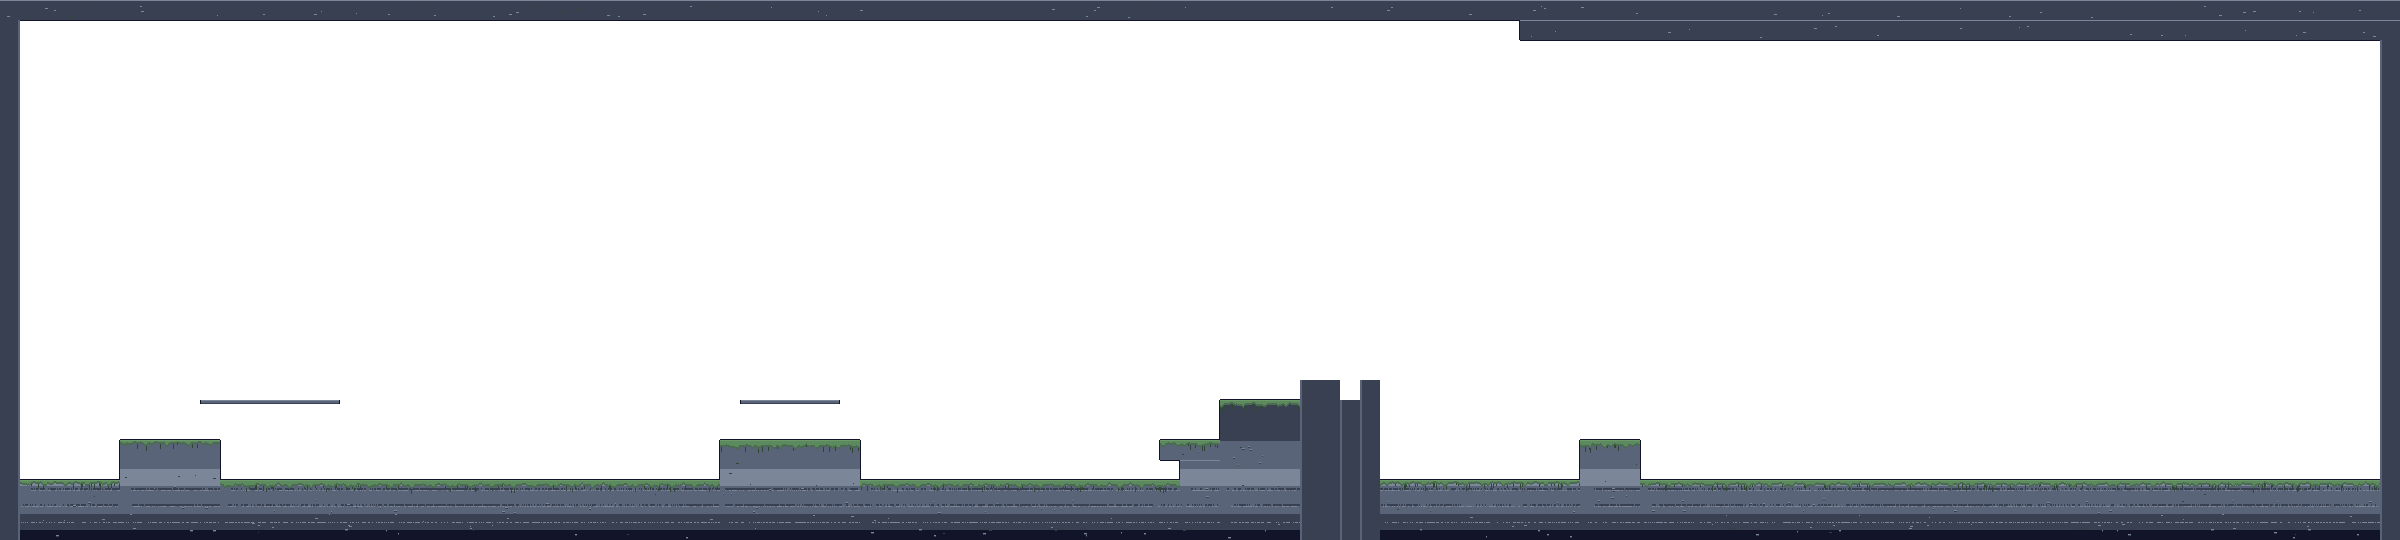
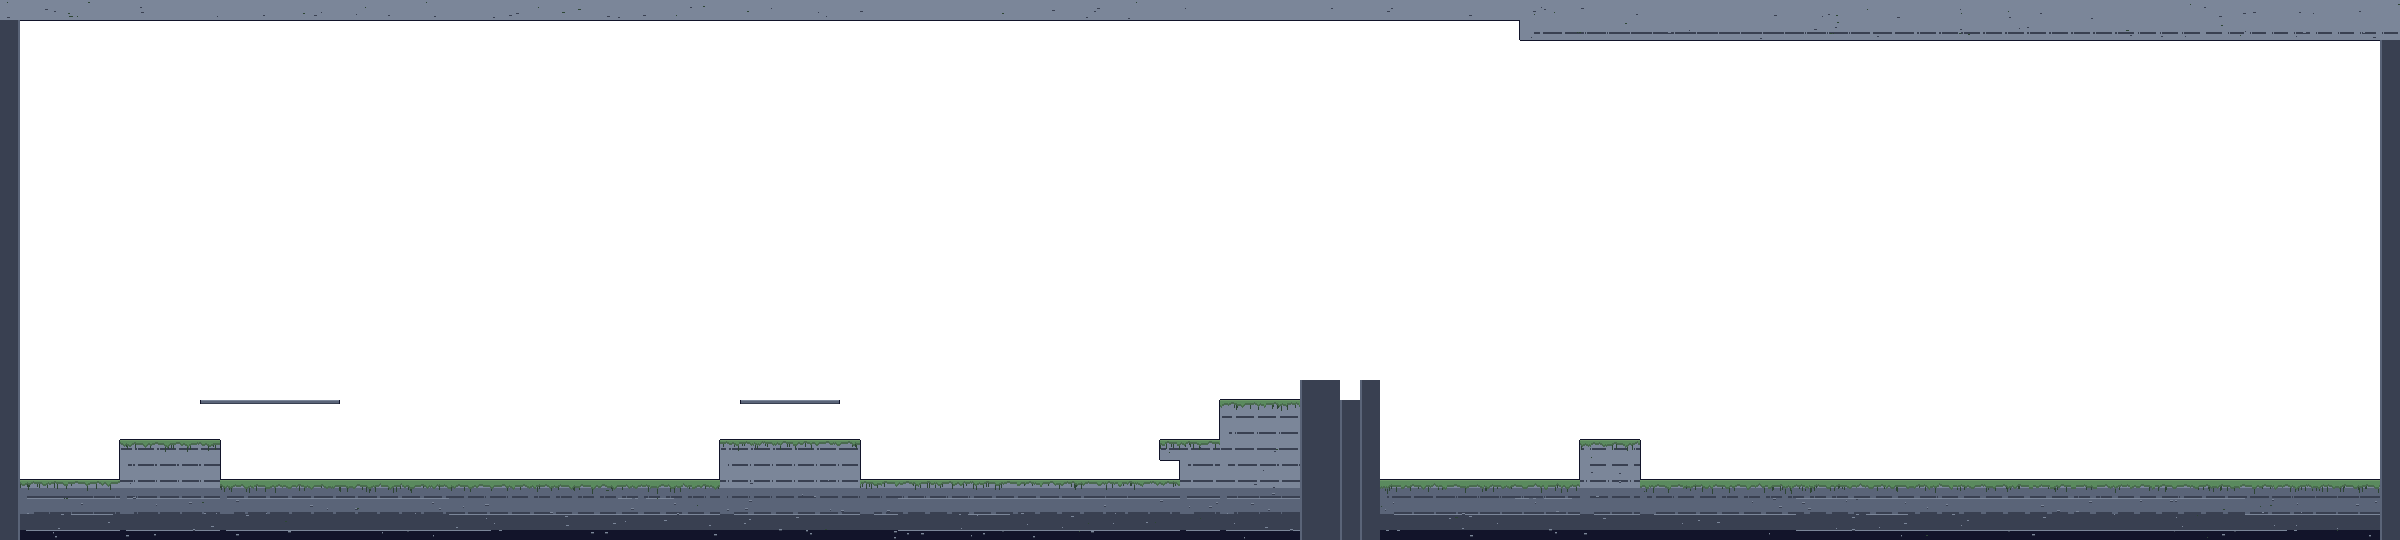
fix(art): 岩层线连续 - 哈希替代 rng 并统一高台配色

Changed region(s): [[0.0, 0.7407, 1.0, 1.0], [0.0, 0.0, 1.0, 0.0889]]

diff --git a/tools/make_scene_art.py b/tools/make_scene_art.py
@@ -516,18 +516,27 @@ def _draw_solid(px, rng, x, y, w, h, solids):
     # 改成以地面顶（GROUND_Y）为锚点的**绝对深度**：
     # 不管这块地形多高，同一世界 y 永远是同一个明暗。
     def _strata_color(yy):
-        depth = yy - GROUND_Y      # 0 = 地面顶，向下为正
-        if depth < 0:
-            # 高于地面的地形（台阶/高台）：按离地面越远越暗，
-            # 但只暗两档，保持"受光的高台"感觉
-            if depth > -12:
-                return hx("stone_hi")
-            elif depth > -40:
-                return hx("stone")
-            else:
-                return hx("stone_dk")
-        # 地面以下：四段深度
-        if depth < 6:
+        """按**世界 y** 返回该行的岩体主色。
+
+        ## 为什么高台不能"越往上越暗"
+
+        第一版写的是：高于地面 12px 用 stone_hi、40px 内用 stone、
+        再高就用 stone_dk。看起来符合"越靠近地面越亮"的空气透视直觉，
+        但实际效果很糟：
+
+        +80px 的高台整块都是 stone_dk（一块均匀深灰），
+        而紧挨着它的地面是 stone（浅一档）。两者并排放在一起，
+        出现一条**非常明显的横向明暗分界**，高台像贴上去的另一块东西。
+
+        正确的做法：**岩体本身的明暗由"离地表多深"决定**，
+        而"这块地形有多高"只影响它的**顶面**（顶面单独受光）。
+        所以这里只按 depth 分档，而且高台部分保持和地面同一套色阶 ——
+        高台只是"地面被抬起来"，不是"另一种材质"。
+        """
+        depth = yy - GROUND_Y      # 0 = 地面顶，向下为正（负 = 高于地面）
+        # 统一用同一套深度色阶：高于地面的部分按负数 depth 处理，
+        # 让它落到最亮的一档，与地面顶部自然衔接。
+        if depth < 8:
             return hx("stone_hi")
         elif depth < 34:
             return hx("stone")
@@ -546,29 +555,59 @@ def _draw_solid(px, rng, x, y, w, h, solids):
     # 每个地形块只画落在自己范围内的那些线。
     # 原来从 y + top_zone + rng 起步，每块各错开一次，
     # 相邻块的层理在交界处完全对不上。
-    layer_y = GROUND_Y + 8
+    # **岩层线要覆盖整块地形，包括高于地面的高台**。
+    #
+    # 原来从 GROUND_Y+8 起步，只画地面以下 —— 高于地面的高台内部
+    # 变成一整片没有任何纹理的平色（放大 3 倍看非常明显，像贴上去的色块）。
+    #
+    # 改成从地图顶部起、每 16px 一条，落在本块范围内的就画。
+    # 这样高台内部也有层理，和地面是同一套材质。
+    layer_y = 16
     while layer_y < ROOM_H:
-        if not (y <= layer_y < y + h - 4):
+        if not (y + 2 <= layer_y < y + h - 4):
             layer_y += 16
             continue
-        off = rng.randint(0, 14)
+        # **`off` 必须由 layer_y 决定，不能用 rng**。
+        # rng 每块地形都会重新摇一次，横向相邻的两块各摇到不同的偏移，
+        # 同一层岩层线在交界处就错开 0~14px —— 竖着看非常明显。
+        # 用 (layer_y * 7) % 15 得到一个稳定但看着随机的偏移。
+        off = (layer_y * 7) % 15
         # 层理：**2px 暗线 + 1px 亮线**。对比要够 —— 第一版只画 1px、
         # 概率 0.82，在 480px 宽的地面上几乎看不见，截图里地板是一块纯灰。
         for xx in range(x + off, x + w):
             if xx < 0 or xx >= ROOM_W:
                 continue
-            # **岩层线要断续**，不能整条拉通。
-            # 整条连续会变成等距横纹，像"斑马线"而不是沉积岩。
-            # 用一个低频正弦当"密度波"，两端稀、中间密，
-            # 再叠随机，形成自然的断续纹理。
+            # **岩层线要断续**，但不能用 rng。
+            #
+            # 用 rng 有两个致命问题：
+            #   1. 每块地形独立摇，横向相邻的块在同一 x 处给出不同结果，
+            #      交界处必然断线（实测 y=520 这一行有 8 段断口）
+            #   2. 结果不可复现，改一次代码整片纹理就变样
+            #
+            # 改用**像素坐标的确定性哈希**：同一 (xx, layer_y) 永远同一结果，
+            # 所以相邻地块自动接上，而且纹理稳定可复现。
             import math as _m
-            wave = 0.5 + 0.5 * _m.sin(xx / 47.0 + layer_y * 0.37)
-            if rng.random() < 0.90 * (0.45 + 0.55 * wave):
+            # **密度波要够长**：原来用 sin(xx/47)，周期只有约 300px，
+            # 在 2400px 宽的地图上会重复 8 次，看起来像规则花纹。
+            # 改成 200px 波长的叠加，配合更低的断线率，层理更像天然沉积。
+            #
+            # 断线率：原来 0.90*(0.45+0.55*wave) 平均约 0.65，
+            # 断得太碎变成"短横线阵列"（放大看像砖块）。
+            # 提到 0.97 基准，只在波谷处断开，形成连续的长层理。
+            wave = 0.5 + 0.5 * _m.sin(xx / 197.0 + layer_y * 0.37)
+            wave2 = 0.5 + 0.5 * _m.sin(xx / 61.0 + layer_y * 1.13)
+            wave = wave * 0.7 + wave2 * 0.3
+            # 哈希：把坐标搅成一个 0~1 的伪随机数
+            hsh = ((xx * 73856093) ^ (layer_y * 19349663)) & 0xFFFF
+            r1 = hsh / 65535.0
+            hsh2 = ((xx * 83492791) ^ (layer_y * 2654435761)) & 0xFFFF
+            r2 = hsh2 / 65535.0
+            if r1 < 0.97 * (0.72 + 0.28 * wave):
                 px[xx, layer_y] = hx("stone_dk")
                 if layer_y + 1 < y + h:
                     px[xx, layer_y + 1] = hx("stone_dk")
             # 层理下方 1px 高光：让每层看起来有厚度、上面受光
-            if rng.random() < 0.55 and layer_y + 2 < y + h:
+            if r2 < 0.55 and layer_y + 2 < y + h:
                 px[xx, layer_y + 2] = hx("stone_hi")
         layer_y += 16
 
